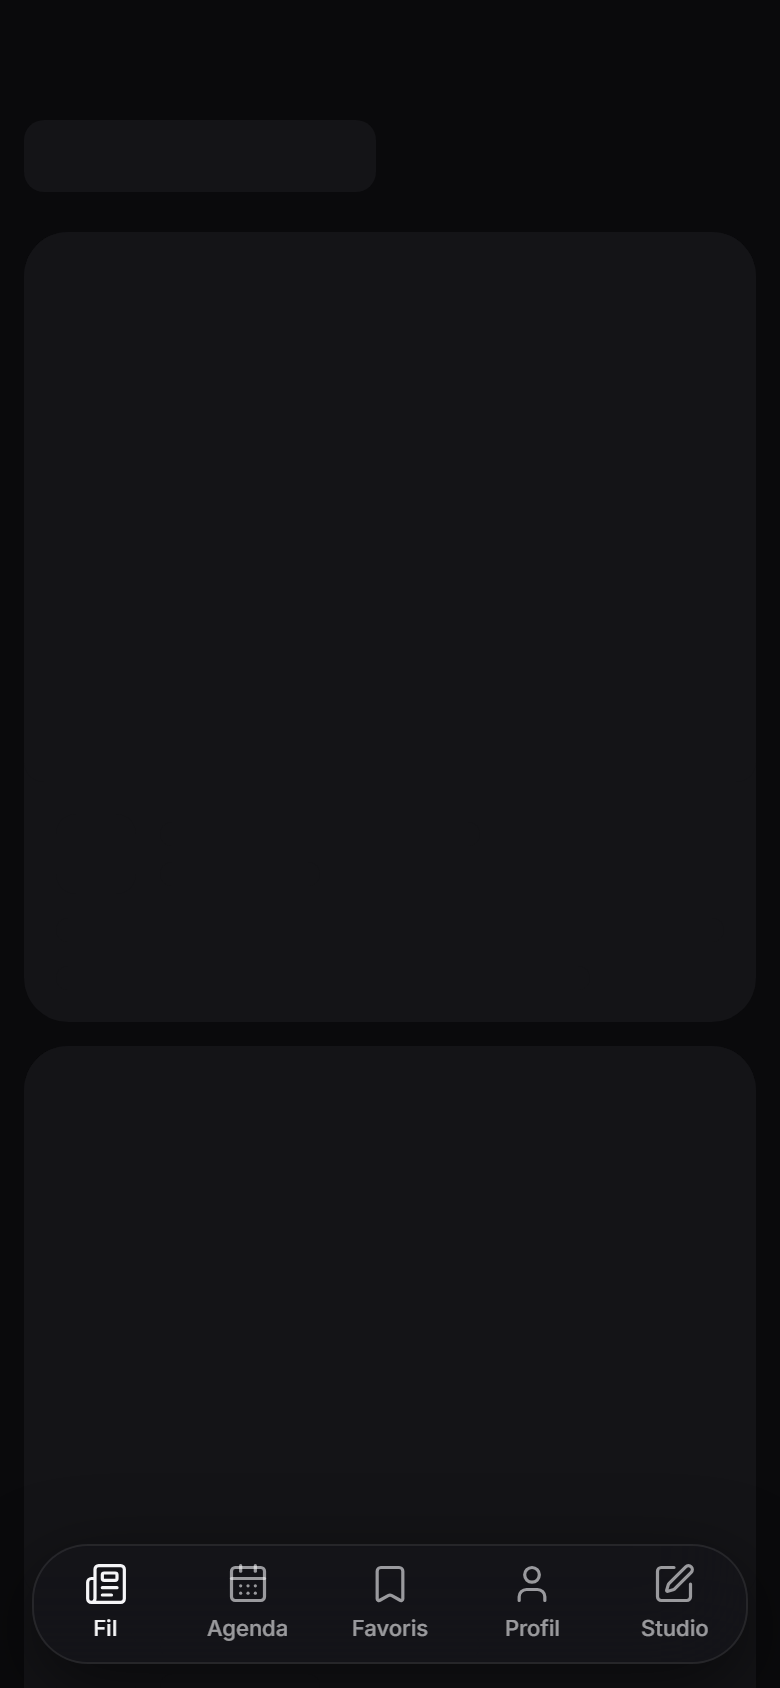
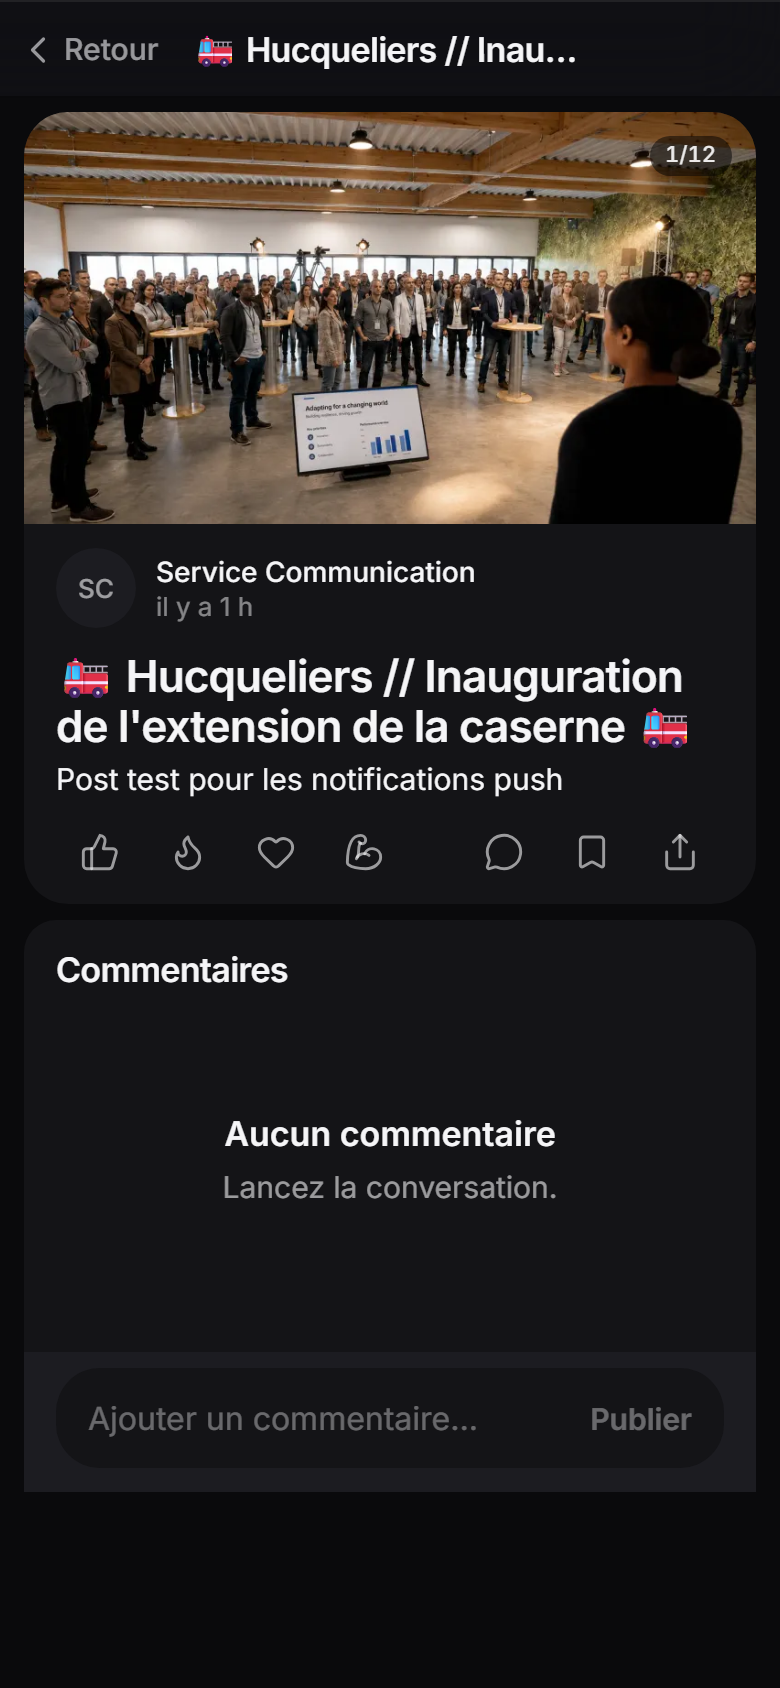
fix(fil): exergue sans changement d'URL (le routeur rechargeait le fil)
L'entrée d'historique n'a plus d'URL : ouverture en 90 ms sans aucune
requête, bouton Retour du téléphone et bouton Retour de la vue referment,
position de défilement conservée.

diff --git a/components/feed/PostOverlay.tsx b/components/feed/PostOverlay.tsx
@@ -11,9 +11,9 @@ import { PostCard } from "./PostCard";
 
 /**
  * Publication en exergue, ouverte instantanément depuis le fil avec les
- * données déjà chargées (aucun aller-retour serveur). L'URL passe sur
- * /post/<slug> via l'historique : le bouton Retour du téléphone referme la
- * vue, et un rechargement tombe sur la vraie page.
+ * données déjà chargées (aucun aller-retour serveur). Une entrée d'historique
+ * est ajoutée pour que le bouton Retour du téléphone referme la vue ; le
+ * partage et les liens utilisent toujours la page /post/<slug>.
  */
 export function PostOverlay({ post, canModerate, onClose }: { post: FeedPost; canModerate: boolean; onClose: () => void }) {
   const reduced = useReducedMotion();
@@ -22,9 +22,9 @@ export function PostOverlay({ post, canModerate, onClose }: { post: FeedPost; ca
 
   useEffect(() => {
     lockScroll();
-    const href = `/post/${post.slug}`;
-    const previous = window.location.pathname + window.location.search;
-    window.history.pushState({ atlasOverlay: true }, "", href);
+    // Entrée d'historique sans changement d'URL : le routeur Next ne déclenche
+    // aucune navigation, et le bouton Retour du téléphone referme la vue.
+    window.history.pushState({ ...(window.history.state ?? {}), atlasOverlay: true }, "");
     pushed.current = true;
     const onPop = () => {
       closing.current = true;
@@ -43,10 +43,6 @@ export function PostOverlay({ post, canModerate, onClose }: { post: FeedPost; ca
       window.removeEventListener("popstate", onPop);
       document.removeEventListener("keydown", onKey);
       unlockScroll();
-      // Fermeture sans passer par l'historique (ex. démontage) : on restaure l'URL du fil
-      if (pushed.current && !closing.current && window.location.pathname === href) {
-        window.history.replaceState(null, "", previous);
-      }
     };
     // eslint-disable-next-line react-hooks/exhaustive-deps -- montage unique par publication
   }, [post.slug]);
